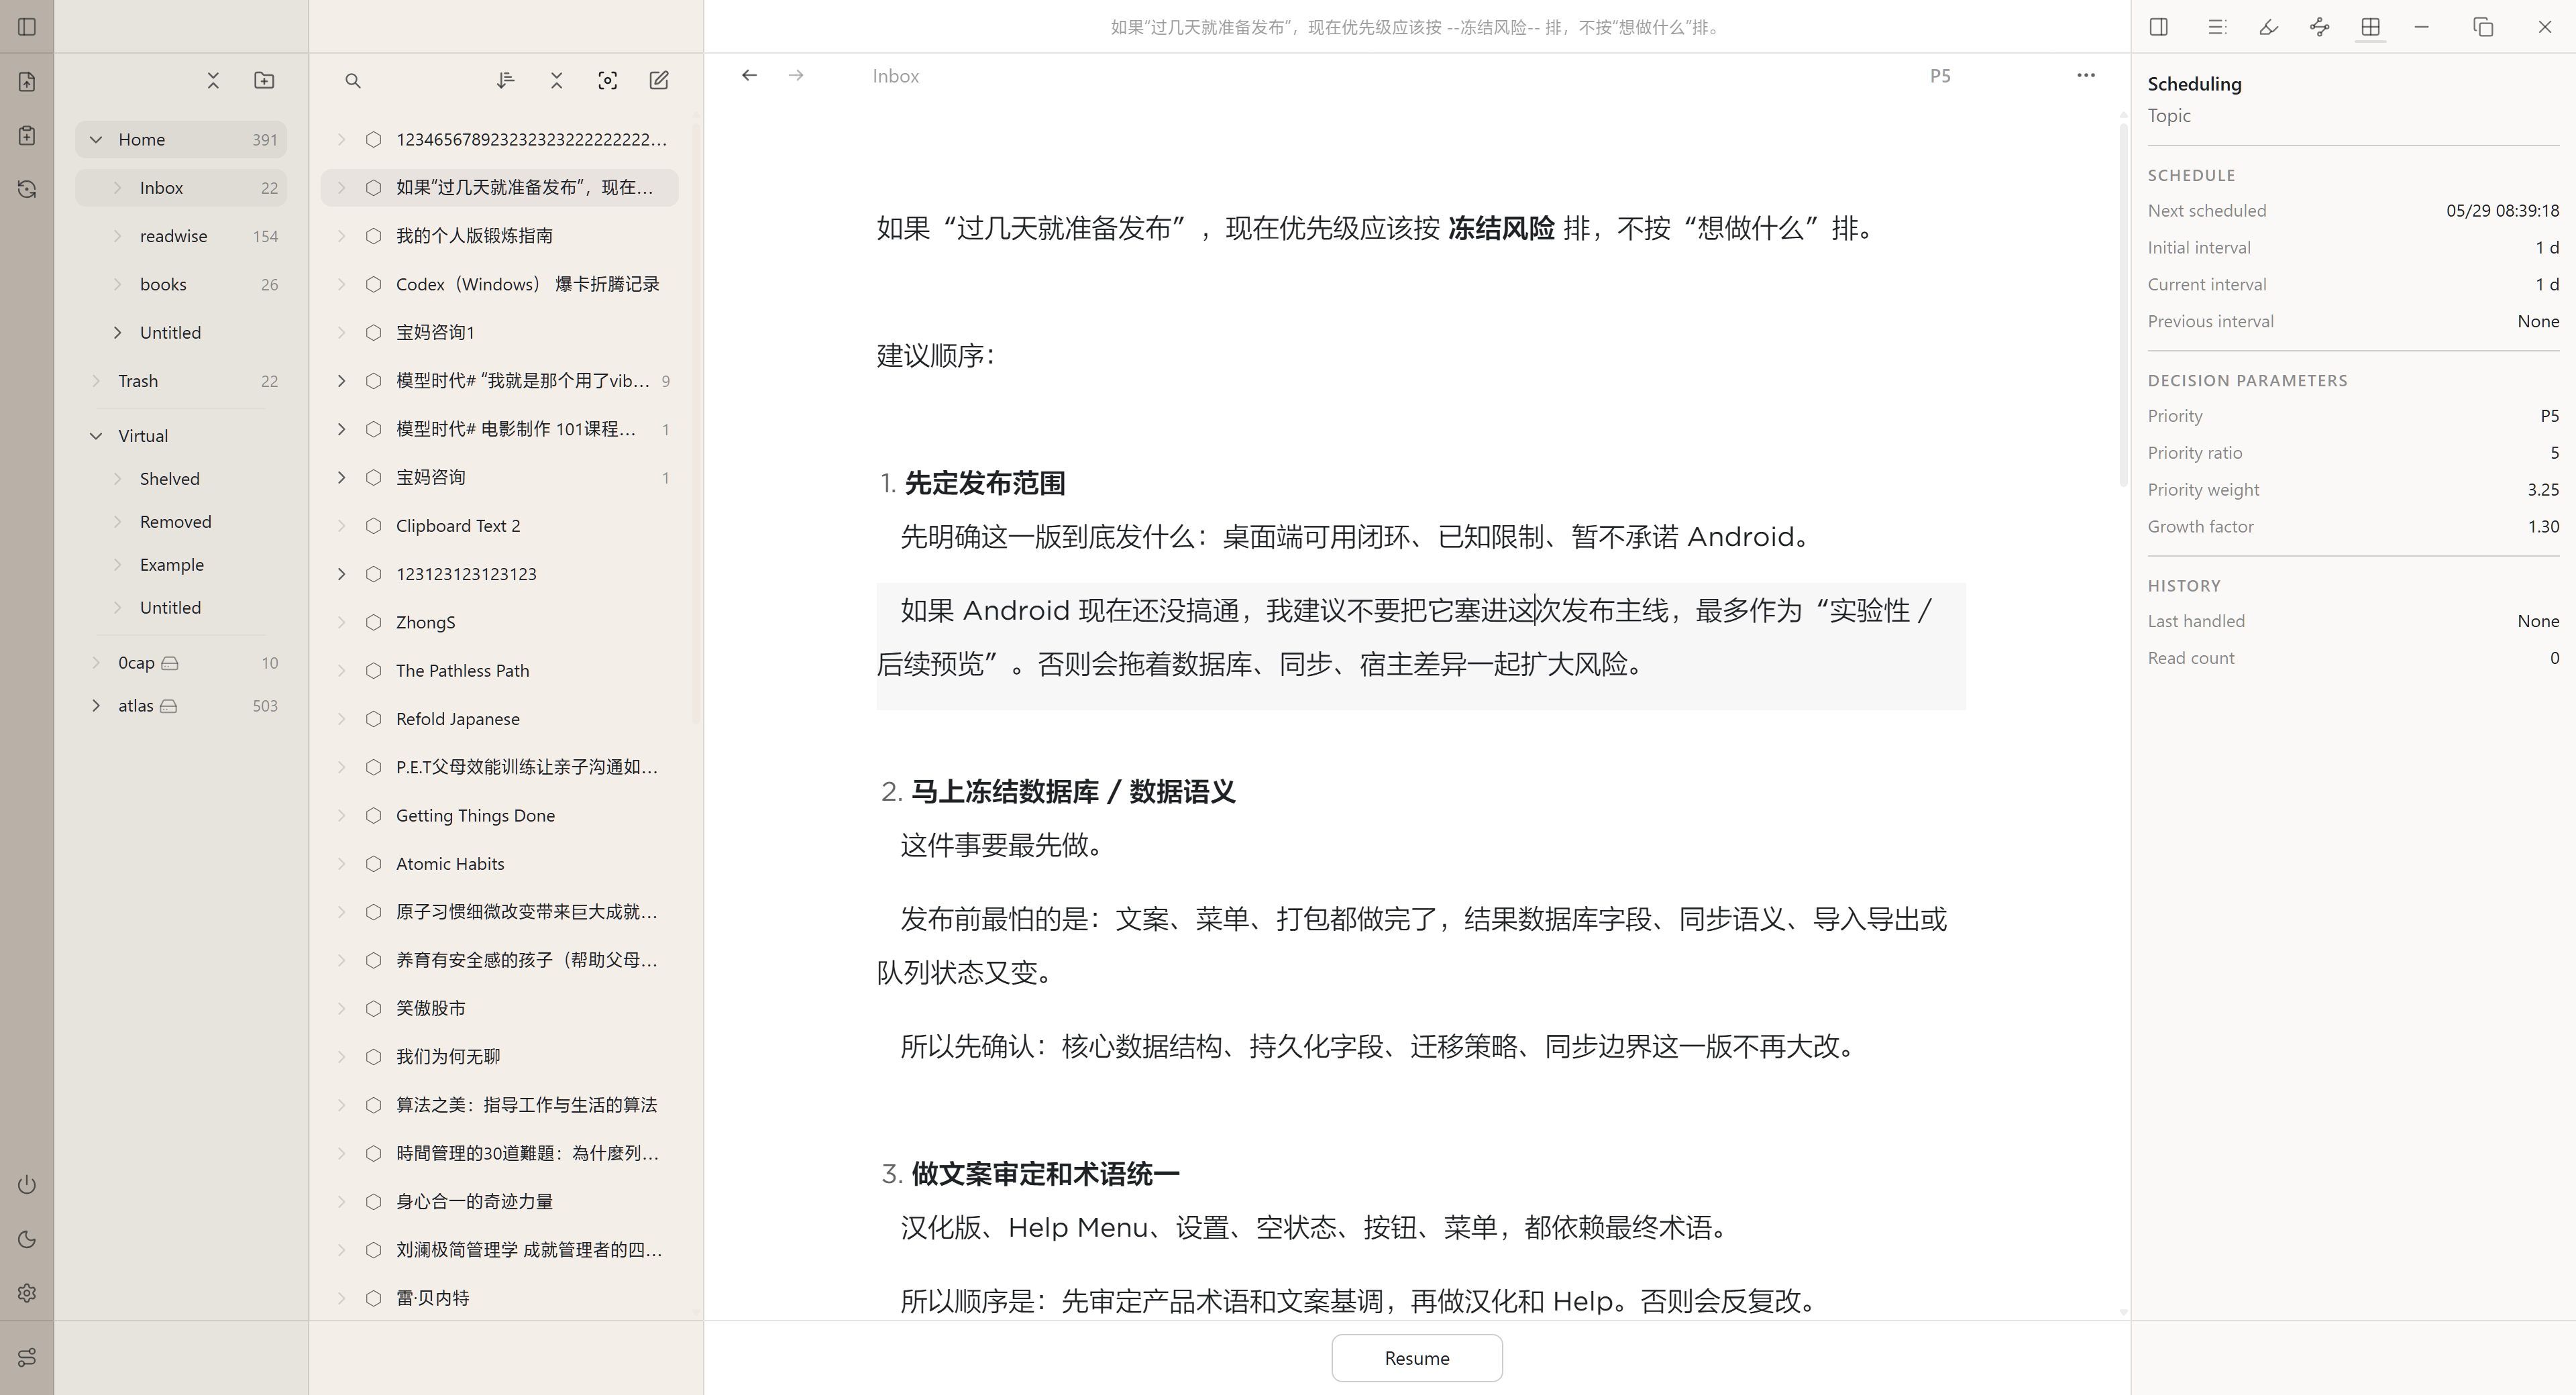
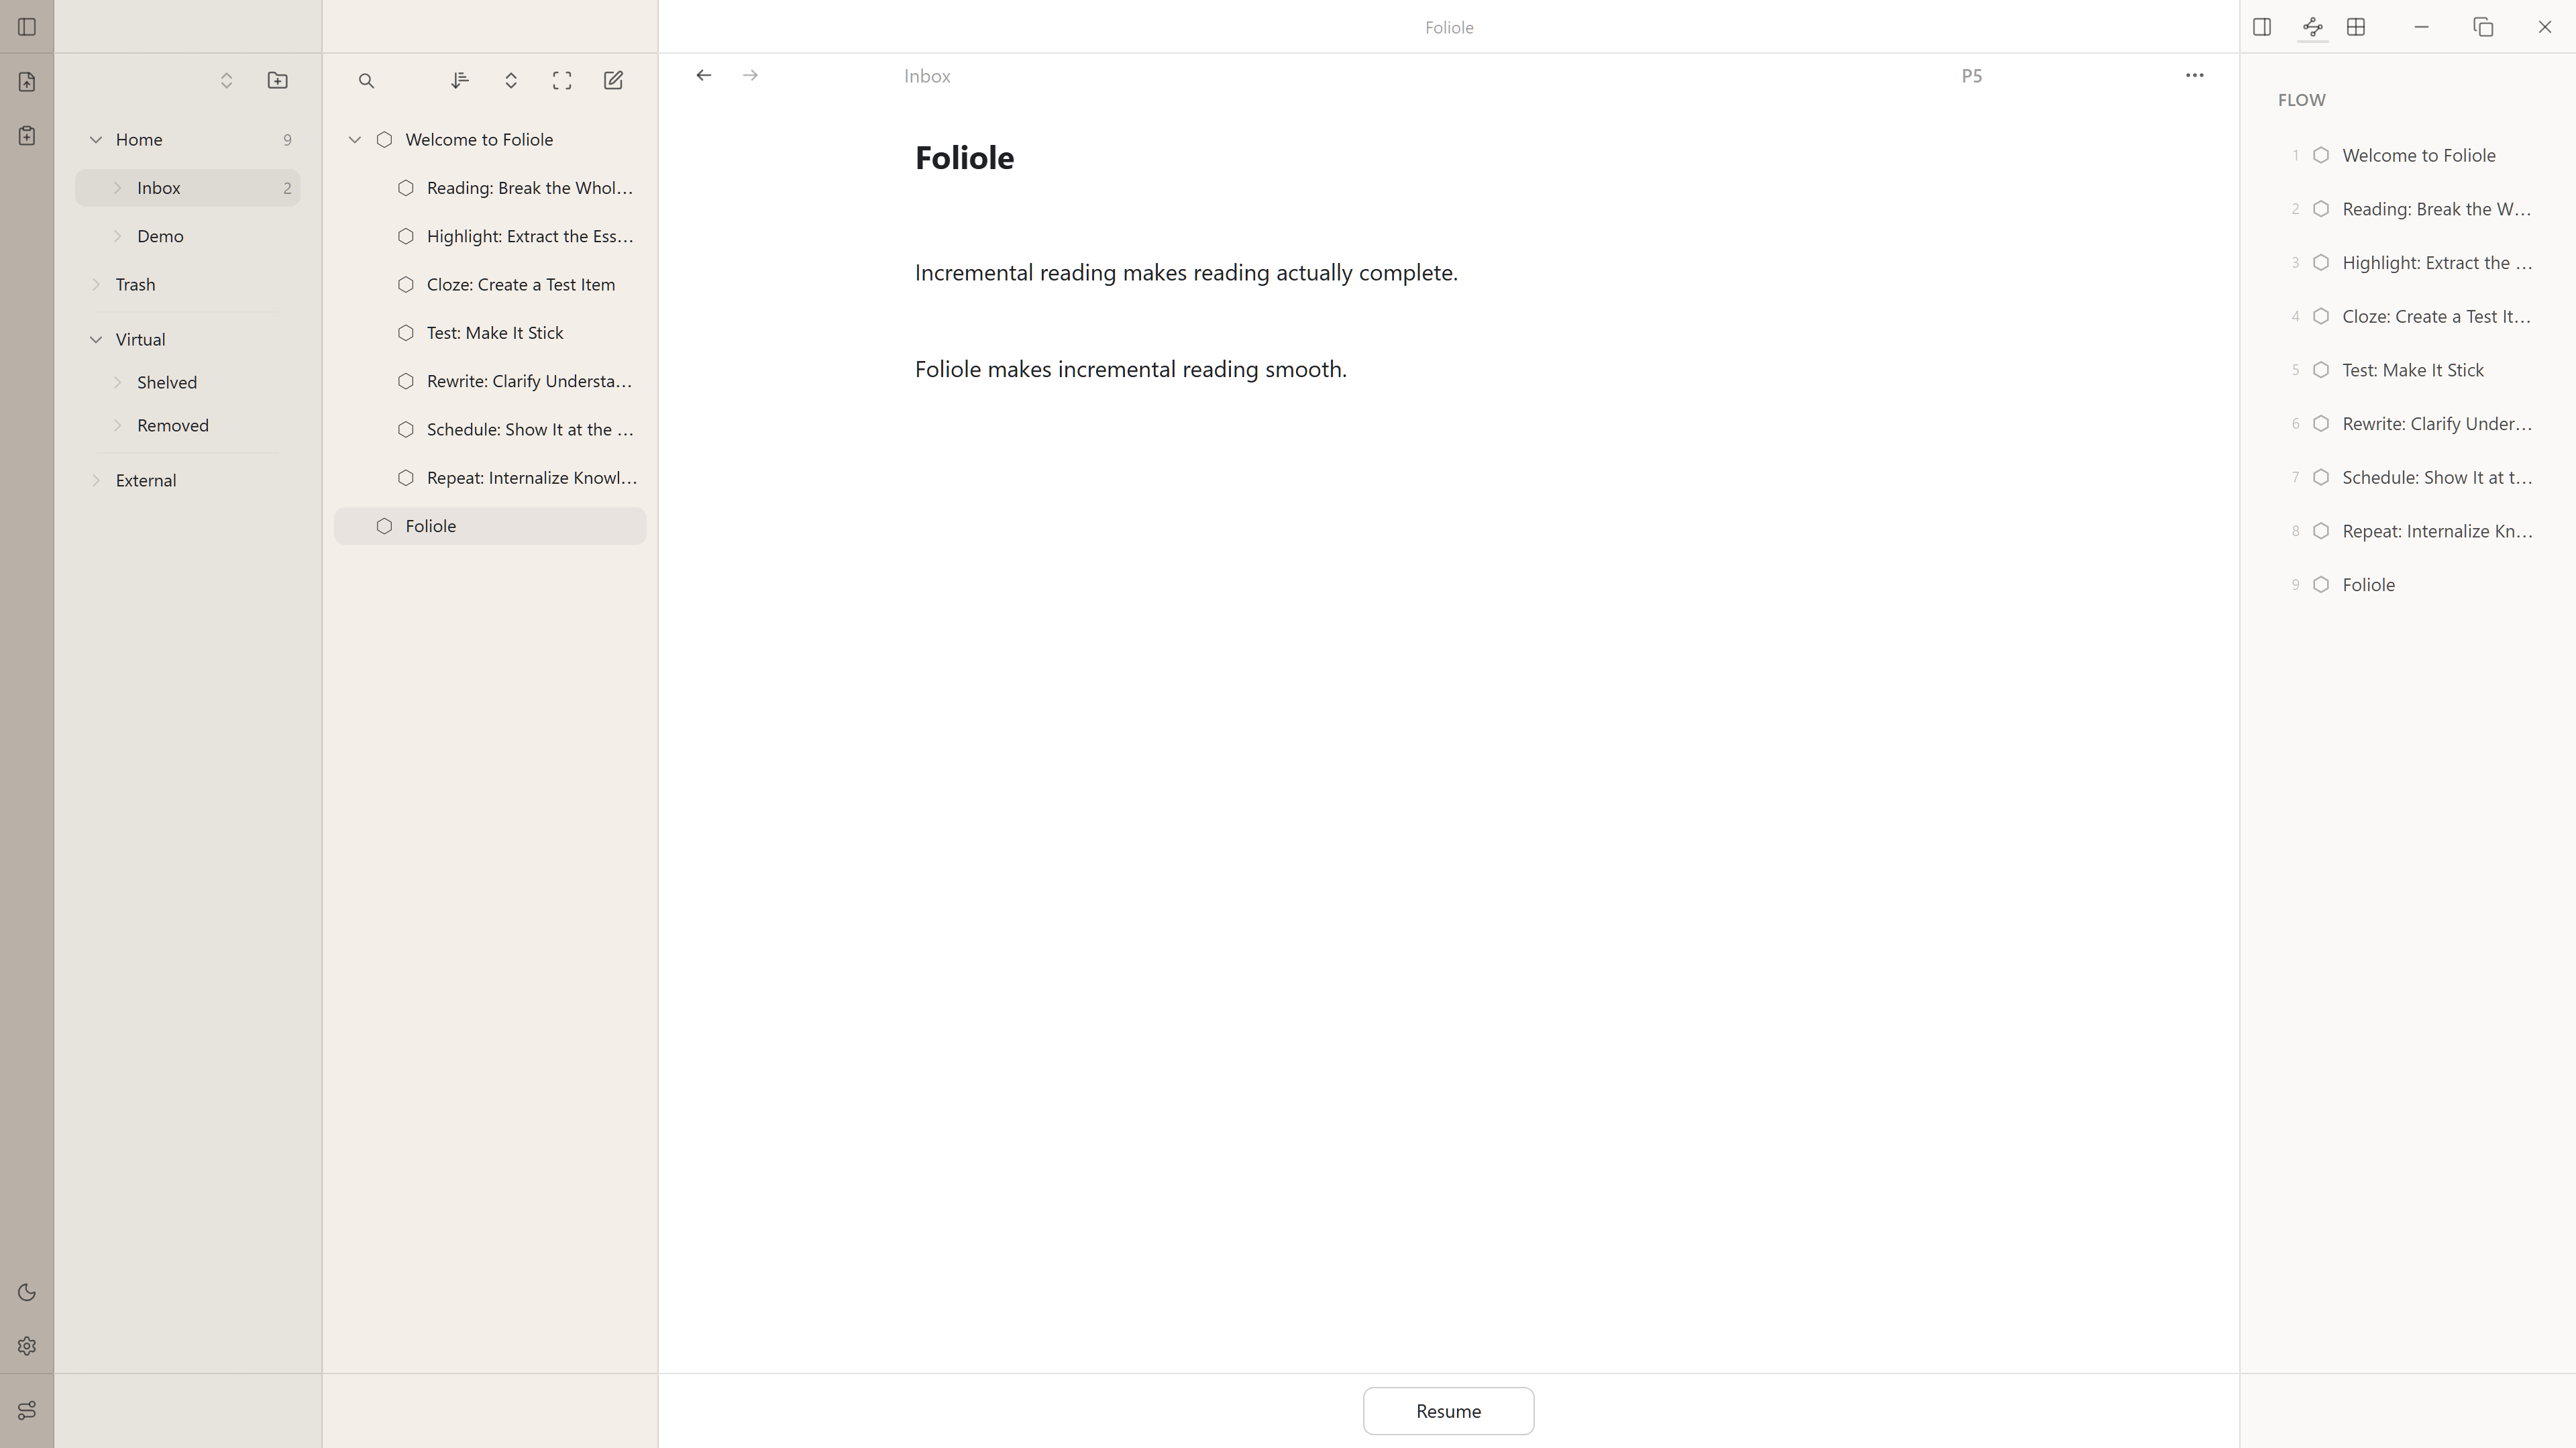
000002 add section screenshots and language menu
context: split sections needed matched screenshots and the native language picker rendered poorly.

change: wire section-specific screenshots and replace the select with a styled language menu.

intent: make the landing page visuals and language control easier to review before localization.

diff --git a/styles.css b/styles.css
@@ -476,21 +476,30 @@ h1 {
 
 /* ===== LANGUAGE ===== */
 .language-picker {
-  width: 46px;
-  height: 46px;
   position: relative;
   display: inline-flex;
   align-items: center;
   justify-content: center;
-  border: 1px solid var(--line);
-  border-radius: 8px;
-  background: rgba(251, 251, 248, 0.5);
   color: var(--muted);
+}
+
+.language-button {
+  min-width: 76px;
+  height: 48px;
+  display: inline-flex;
+  align-items: center;
+  justify-content: center;
+  gap: 0.55rem;
+  border: 1px solid var(--line);
+  border-radius: 14px;
+  background: rgba(251, 251, 248, 0.72);
+  color: var(--ink);
   cursor: pointer;
 }
 
-.language-picker:hover,
-.language-picker:focus-within {
+.language-button:hover,
+.language-button:focus-visible,
+.language-picker.is-open .language-button {
   color: var(--ink);
   border-color: rgba(82, 122, 60, 0.36);
   background: rgba(251, 251, 248, 0.74);
@@ -507,19 +516,53 @@ h1 {
   pointer-events: none;
 }
 
-.language-select {
+.language-chevron {
+  width: 18px;
+  height: 18px;
+  fill: none;
+  stroke: currentColor;
+  stroke-width: 2.6;
+  stroke-linecap: round;
+  stroke-linejoin: round;
+  pointer-events: none;
+}
+
+.language-menu {
   position: absolute;
-  inset: 0;
+  top: calc(100% + 14px);
+  right: 0;
+  z-index: 30;
+  min-width: 260px;
+  padding: 10px;
+  border: 1px solid var(--line);
+  border-radius: 14px;
+  background: rgba(251, 251, 248, 0.96);
+  box-shadow: 0 28px 72px rgba(31, 48, 39, 0.18);
+}
+
+.language-menu button {
   width: 100%;
-  height: 100%;
+  min-height: 64px;
+  display: flex;
+  align-items: center;
   border: 0;
-  border-radius: inherit;
-  appearance: none;
+  border-radius: 10px;
   background: transparent;
-  color: transparent;
-  font: inherit;
+  color: var(--ink);
+  font: 680 1.35rem/1.2 Inter, ui-sans-serif, system-ui, -apple-system, BlinkMacSystemFont, "Segoe UI", sans-serif;
+  text-align: left;
+  padding: 0 1.25rem;
   cursor: pointer;
-  opacity: 0;
+}
+
+.language-menu button:hover,
+.language-menu button:focus-visible {
+  background: rgba(82, 122, 60, 0.1);
+}
+
+.language-menu button[aria-checked="true"] {
+  color: var(--primary);
+  background: rgba(82, 122, 60, 0.08);
 }
 
 /* ===== FOCUS ===== */

diff --git a/index.html b/index.html
@@ -35,18 +35,23 @@
               </nav>
             </div>
             <nav class="utility-nav" aria-label="Utility navigation">
-              <label class="language-picker" aria-label="Language">
-                <svg class="language-icon" viewBox="0 0 24 24" aria-hidden="true">
+              <div class="language-picker">
+                <button class="language-button" type="button" aria-label="Language" aria-expanded="false" aria-controls="language-menu">
+                  <svg class="language-icon" viewBox="0 0 24 24" aria-hidden="true">
                   <circle cx="12" cy="12" r="10"></circle>
                   <path d="M2 12h20"></path>
                   <path d="M12 2a15.3 15.3 0 0 1 0 20"></path>
                   <path d="M12 2a15.3 15.3 0 0 0 0 20"></path>
-                </svg>
-                <select class="language-select">
-                  <option value="en">English</option>
-                  <option value="zh">中文</option>
-                </select>
-              </label>
+                  </svg>
+                  <svg class="language-chevron" viewBox="0 0 24 24" aria-hidden="true">
+                    <path d="m6 9 6 6 6-6"></path>
+                  </svg>
+                </button>
+                <div class="language-menu" id="language-menu" role="menu" hidden>
+                  <button type="button" role="menuitemradio" aria-checked="true" data-lang="en">English</button>
+                  <button type="button" role="menuitemradio" aria-checked="false" data-lang="zh">中文</button>
+                </div>
+              </div>
             </nav>
           </header>
           <div class="hero-copy">
@@ -79,7 +84,7 @@
             <p>The code is open source. Anyone can review the implementation, build it from source, or contribute improvements.</p>
           </div>
           <figure class="split-visual">
-            <img src="assets/screenshots/foliole-desktop.png" alt="Foliole desktop interface preview." width="3840" height="2080">
+            <img src="assets/screenshots/Open Source.png" alt="Foliole desktop interface preview." width="3840" height="1906">
           </figure>
         </section>
 
@@ -89,7 +94,7 @@
             <p>Uses a SQLite database and provides a Markdown mirror, making materials easier to read, migrate, and reuse.</p>
           </div>
           <figure class="split-visual">
-            <img src="assets/screenshots/foliole-desktop.png" alt="Foliole document library and reading workspace." width="3840" height="2080">
+            <img src="assets/screenshots/Open Data.png" alt="Foliole document library and reading workspace." width="1937" height="1602">
           </figure>
         </section>
 
@@ -99,7 +104,7 @@
             <p>No account system. No central cloud sync. All data stays on your personal devices; devices sync over the local network.</p>
           </div>
           <figure class="split-visual">
-            <img src="assets/screenshots/foliole-desktop.png" alt="Foliole local reading workspace." width="3840" height="2080">
+            <img src="assets/screenshots/Local First.png" alt="Foliole local reading workspace." width="1936" height="1582">
           </figure>
         </section>
 
@@ -109,7 +114,7 @@
             <p>Built around Piotr Woźniak's incremental reading ideas, with a native workflow for extracting passages, creating cloze deletions, and refining materials without leaving the reading flow.</p>
           </div>
           <figure class="split-visual">
-            <img src="assets/screenshots/foliole-desktop.png" alt="Foliole reading pane with extracted notes." width="3840" height="2080">
+            <img src="assets/screenshots/Native Incremental Reading.png" alt="Foliole reading pane with extracted notes." width="2046" height="1558">
           </figure>
         </section>
 
@@ -119,7 +124,7 @@
             <p>Integrates FSRS (Free Spaced Repetition Scheduler), an open and efficient review scheduling algorithm.</p>
           </div>
           <figure class="split-visual">
-            <img src="assets/screenshots/foliole-desktop.png" alt="Foliole scheduling panel in the desktop app." width="3840" height="2080">
+            <img src="assets/screenshots/Integrated FSRS Scheduling.png" alt="Foliole scheduling panel in the desktop app." width="1943" height="1582">
           </figure>
         </section>
 
@@ -129,7 +134,7 @@
             <p>Handles reading materials from different sources, whether local files, web documents, notes managed in Obsidian, or materials exported from Readwise Reader.</p>
           </div>
           <figure class="split-visual">
-            <img src="assets/screenshots/foliole-desktop.png" alt="Foliole document list and reading sources." width="3840" height="2080">
+            <img src="assets/screenshots/Bring Reading Materials Together.png" alt="Foliole document list and reading sources." width="1954" height="1585">
           </figure>
         </section>
 
@@ -139,7 +144,7 @@
             <p>Index other local folders on your computer without copying or moving the original files, creating an external document library that can be searched, viewed, and used across supported clients.</p>
           </div>
           <figure class="split-visual">
-            <img src="assets/screenshots/foliole-desktop.png" alt="Foliole document navigation and indexed folders." width="3840" height="2080">
+            <img src="assets/screenshots/Index External Documents.png" alt="Foliole document navigation and indexed folders." width="1946" height="1586">
           </figure>
         </section>
 
@@ -149,7 +154,7 @@
             <p>Supports Markdown, PDF, EPUB, LaTeX math, code blocks, and other content rendering needs.</p>
           </div>
           <figure class="split-visual">
-            <img src="assets/screenshots/foliole-desktop.png" alt="Foliole complex content reading view." width="3840" height="2080">
+            <img src="assets/screenshots/Complex Content Support.png" alt="Foliole complex content reading view." width="1932" height="1515">
           </figure>
         </section>
 
@@ -180,6 +185,40 @@
           });
         }, { threshold: 0.1 });
         document.querySelectorAll('.reveal').forEach(function (el) { io.observe(el); });
+      })();
+
+      (function () {
+        var picker = document.querySelector('.language-picker');
+        if (!picker) return;
+
+        var button = picker.querySelector('.language-button');
+        var menu = picker.querySelector('.language-menu');
+        var items = picker.querySelectorAll('[data-lang]');
+
+        function setOpen(open) {
+          picker.classList.toggle('is-open', open);
+          button.setAttribute('aria-expanded', String(open));
+          menu.hidden = !open;
+        }
+
+        button.addEventListener('click', function () {
+          setOpen(menu.hidden);
+        });
+
+        items.forEach(function (item) {
+          item.addEventListener('click', function () {
+            items.forEach(function (x) { x.setAttribute('aria-checked', String(x === item)); });
+            setOpen(false);
+          });
+        });
+
+        document.addEventListener('click', function (event) {
+          if (!picker.contains(event.target)) setOpen(false);
+        });
+
+        document.addEventListener('keydown', function (event) {
+          if (event.key === 'Escape') setOpen(false);
+        });
       })();
     </script>
   </body>